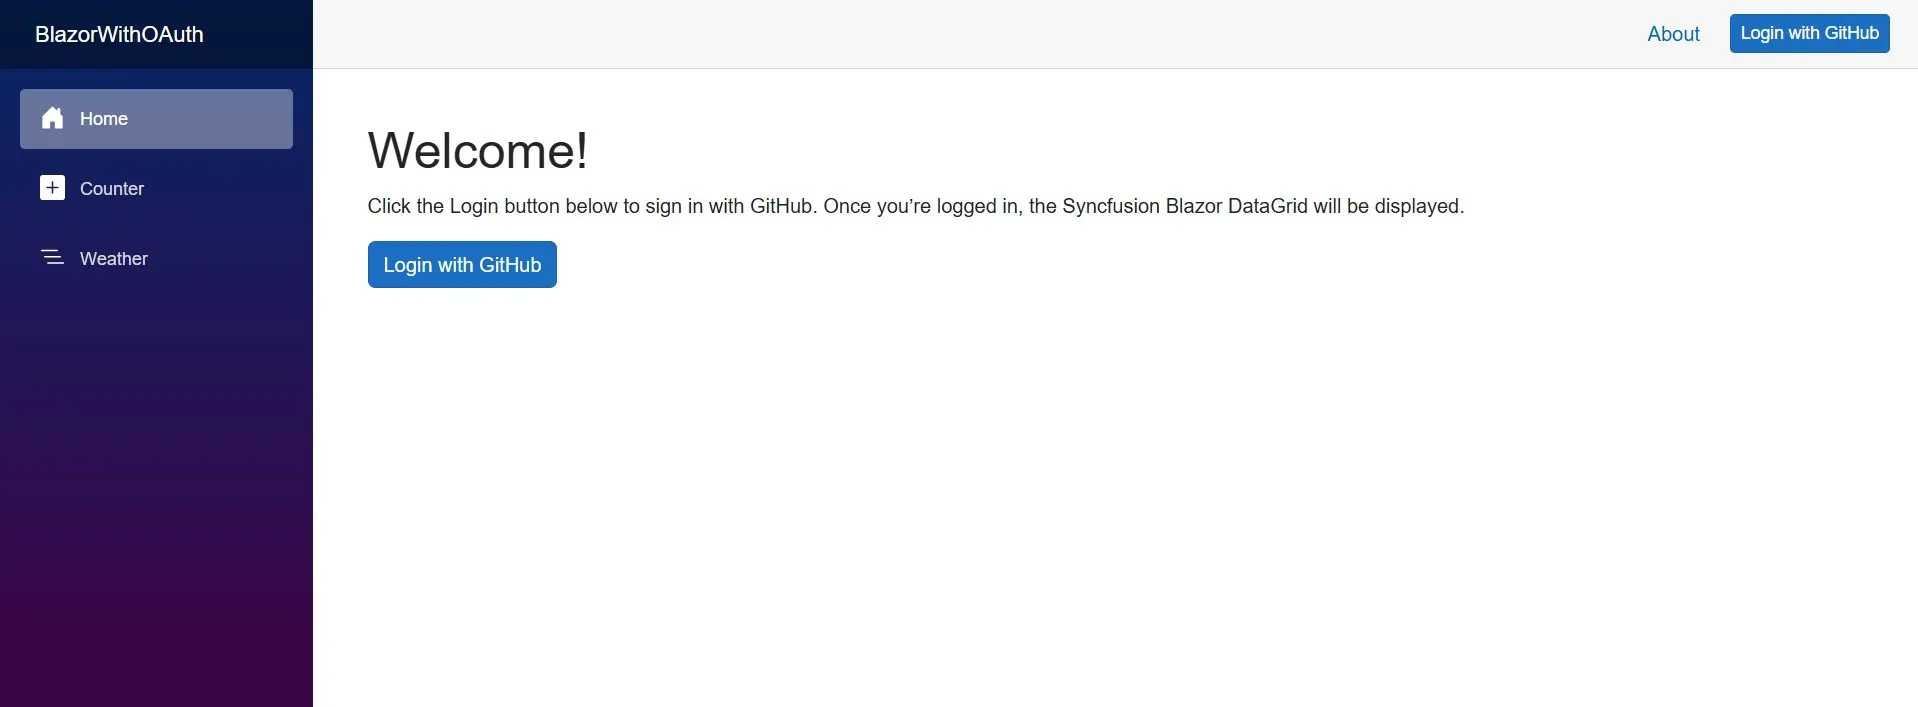
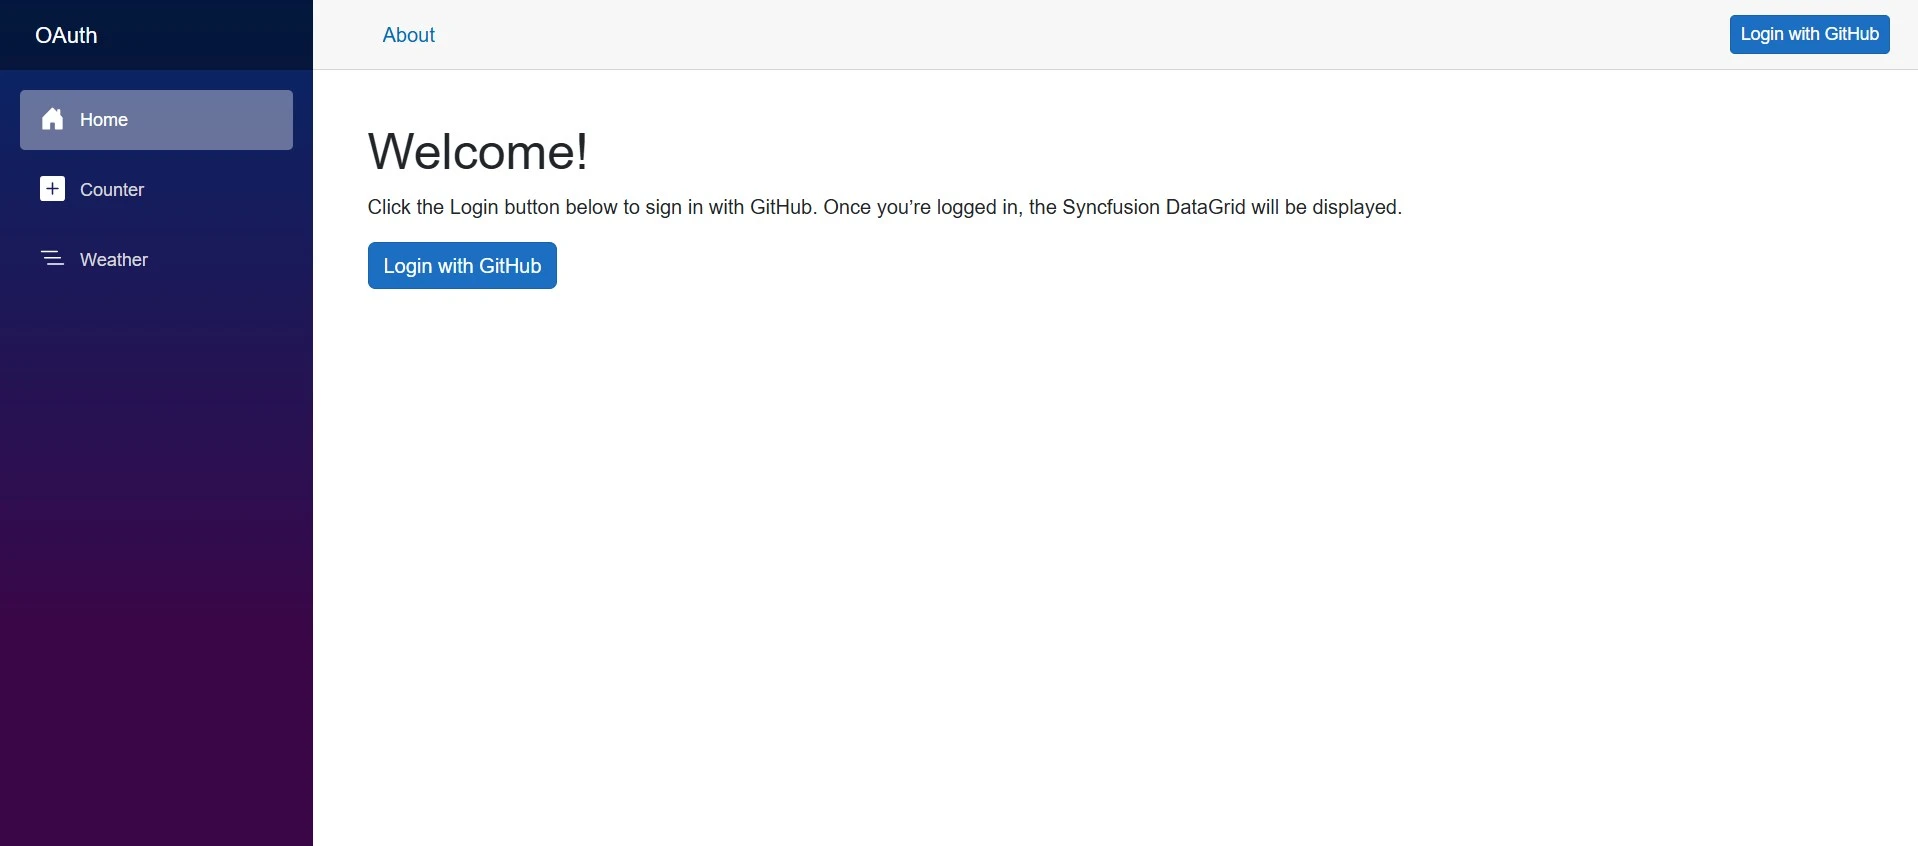
Merge pull request #8362 from syncfusion-content/Oauth-1011189-authentication
1011189- Reviwed and updated the content of OAuth.

Pull request: 1011189- Reviwed and updated the content of OAuth.
## Description
Reviewed and updated the content of OAuth.

## Code Studio usage(Mandatory)
- Code Studio used in this PR/MR?
    - [x] Yes
    - [ ] No
- If `Yes`: Primary use (choose one)
    - [x] Generate new content
    - [ ] Refactor/improve existing content
    - [ ] Review assistance (explanations/summaries)
    - [ ] Other:

- Outcome
    - [ ] Saved time
    - [x] Neutral
    - [ ] Cost time
- If “Cost time” explain in short (1 or 2 lines):

## Type of Change
- [ ] New documentation page
- [x] Update to existing documentation
- [ ] Bug fix (broken links, typos, formatting issues)
- [ ] Structural change (folders, navigation, index)
- [ ] Content improvement (clarity, examples, screenshots)
- [ ] Other (please describe):

## Reviewer Checklist (Mandatory)
- [ ] Reviewed the provided Code Studio usages related information
- [ ] Content changes follow UG/Documentation guidelines
- [ ] All provided information reviewed and verified
- [ ] Links and previews checked

diff --git a/blazor/common/authentication/blazor-oauth-authentication.md b/blazor/common/authentication/blazor-oauth-authentication.md
@@ -13,7 +13,7 @@ This guide explains how to secure the [Syncfusion® Blazor DataGrid](https://www
 
 ## Create a Blazor project
 
-If you already have a Blazor project configured, you can skip this section and proceed to **Install required packages**.
+If you already have a Blazor project configured, you can skip this section and proceed to [Install required packages](./blazor-oauth-authentication#install-required-packages).
 
 Otherwise, create a new Blazor application by following the [Syncfusion® getting started guide](https://blazor.syncfusion.com/documentation/getting-started/blazor-web-app) for a **Blazor Web App (Interactive Server)**.
 
@@ -329,7 +329,7 @@ To allow components to receive authentication state, wrap the router inside **Ca
 
 ## Connect Syncfusion® Blazor DataGrid 
 
-Create `SecureGrid.razor` page and render the **Syncfusion® Blazor DataGrid** on a secured Blazor page using the **[Authorize]** attribute, allowing access only to authenticated users.
+Create `SecureGrid.razor` page and render the **Syncfusion® Blazor DataGrid** on a secured Blazor page using the `[Authorize]` attribute, allowing access only to authenticated users.
 
 {% tabs %}
 {% highlight razor tabtitle="Pages/SecureGrid.razor"  %}
@@ -343,29 +343,34 @@ Create `SecureGrid.razor` page and render the **Syncfusion® Blazor DataGrid** o
 
 <PageTitle>Secure Data Grid</PageTitle>
 
-<SfGrid DataSource="@Orders" AllowPaging="true">
+<SfGrid DataSource="@Orders">
     <GridColumns>
-        <GridColumn Field="@nameof(Order.OrderID)" HeaderText="Order ID" Width="120" />
-        <GridColumn Field="@nameof(Order.CustomerID)" HeaderText="Customer ID" Width="150" />
+        <GridColumn Field=@nameof(Order.OrderID) HeaderText="Order ID" TextAlign="TextAlign.Right" Width="120" />
+        <GridColumn Field=@nameof(Order.CustomerID) HeaderText="Customer ID" Width="100" />
+        <GridColumn Field=@nameof(Order.OrderDate) HeaderText="Order Date" Format="d" Type="ColumnType.Date" Width="100" />
+        <GridColumn Field=@nameof(Order.Freight) HeaderText="Freight" Format="C2" TextAlign="TextAlign.Right" Width="120" />
     </GridColumns>
 </SfGrid>
 
-@code {
-    public List<Order> Orders { get; set; } = new();
+@code{
+    public List<Order> Orders { get; set; }
 
     protected override void OnInitialized()
     {
-        Orders = Enumerable.Range(1, 5).Select(x => new Order()
-        {
-            OrderID = x,
-            CustomerID = (new string[] { "ALFKI", "ANANTR", "ANTON", "BLONP", "BOLID" })[new Random().Next(5)],
+        Orders = Enumerable.Range(1, 12).Select(i => new Order {
+            OrderID = 1000 + i,
+            CustomerID = new[] { "ALFKI","ANATR","ANTON","BLONP","BOLID" }[Random.Shared.Next(5)],
+            OrderDate = DateTime.Today.AddDays(-i),
+            Freight = Math.Round(25 + 15 * Random.Shared.NextDouble(), 2)
         }).ToList();
     }
 
     public class Order
     {
-        public int? OrderID { get; set; }
+        public int OrderID { get; set; }
         public string? CustomerID { get; set; }
+        public DateTime OrderDate { get; set; }
+        public double Freight { get; set; }
     }
 }
 
@@ -374,7 +379,7 @@ Create `SecureGrid.razor` page and render the **Syncfusion® Blazor DataGrid** o
 
 ## Display content based on authentication status
 
-This section demonstrates how to dynamically render UI content based on the user’s authentication state. The `Home.razor` page uses the **<AuthorizeView>** component to show different content for authenticated and unauthenticated users.
+This section demonstrates how to dynamically render UI content based on the user’s authentication state. The `Home.razor` page uses the `<AuthorizeView>` component to show different content for authenticated and unauthenticated users.
 
 {% tabs %}
 {% highlight razor tabtitle="Pages/Home.razor"  %}

diff --git a/blazor/getting-started/maui-blazor-web-app.md b/blazor/getting-started/maui-blazor-web-app.md
@@ -101,7 +101,7 @@ The theme stylesheet and script can be accessed from NuGet through [Static Web A
 </html>
 
 {% endhighlight %}
-{% highlight razor tabtitle="App.razor" hl_lines="6 13" %}
+{% highlight razor tabtitle="App.razor" hl_lines="6 12" %}
 
 <!DOCTYPE html>
 <html lang="en">